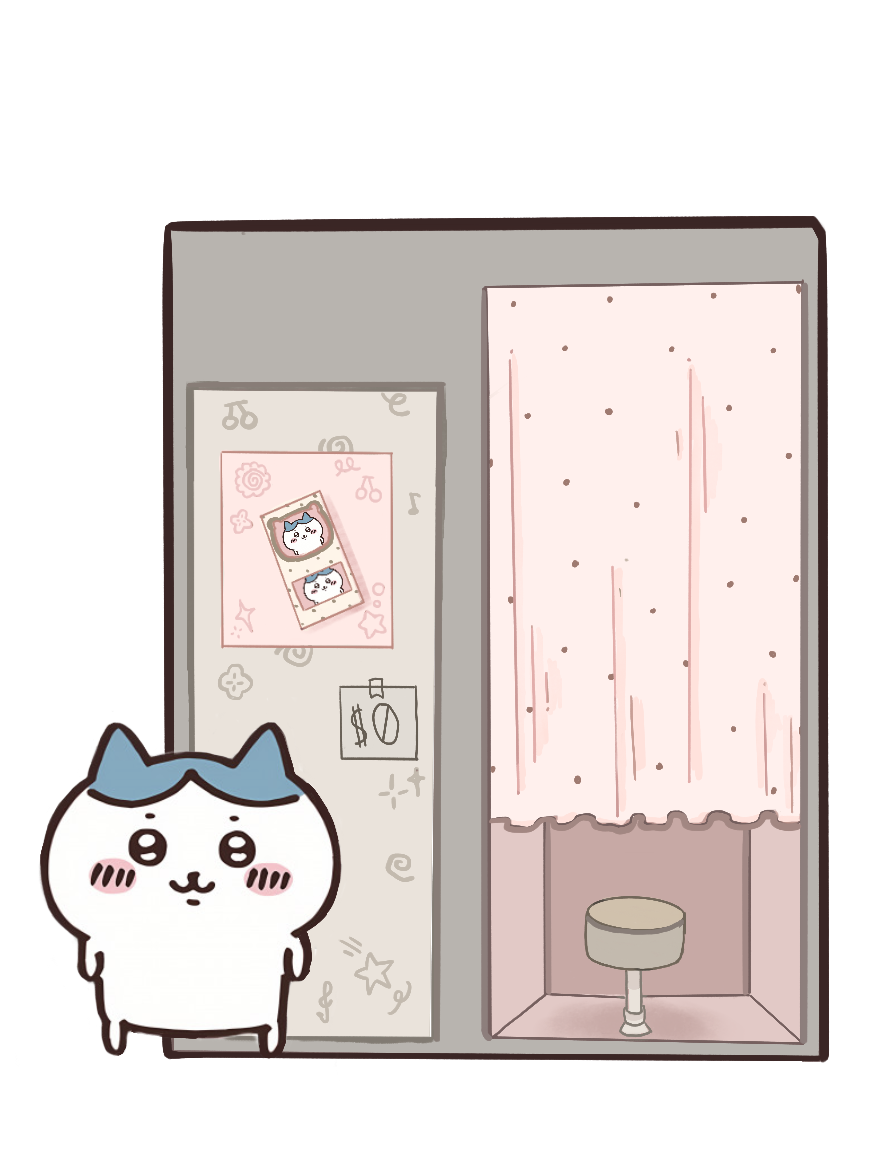
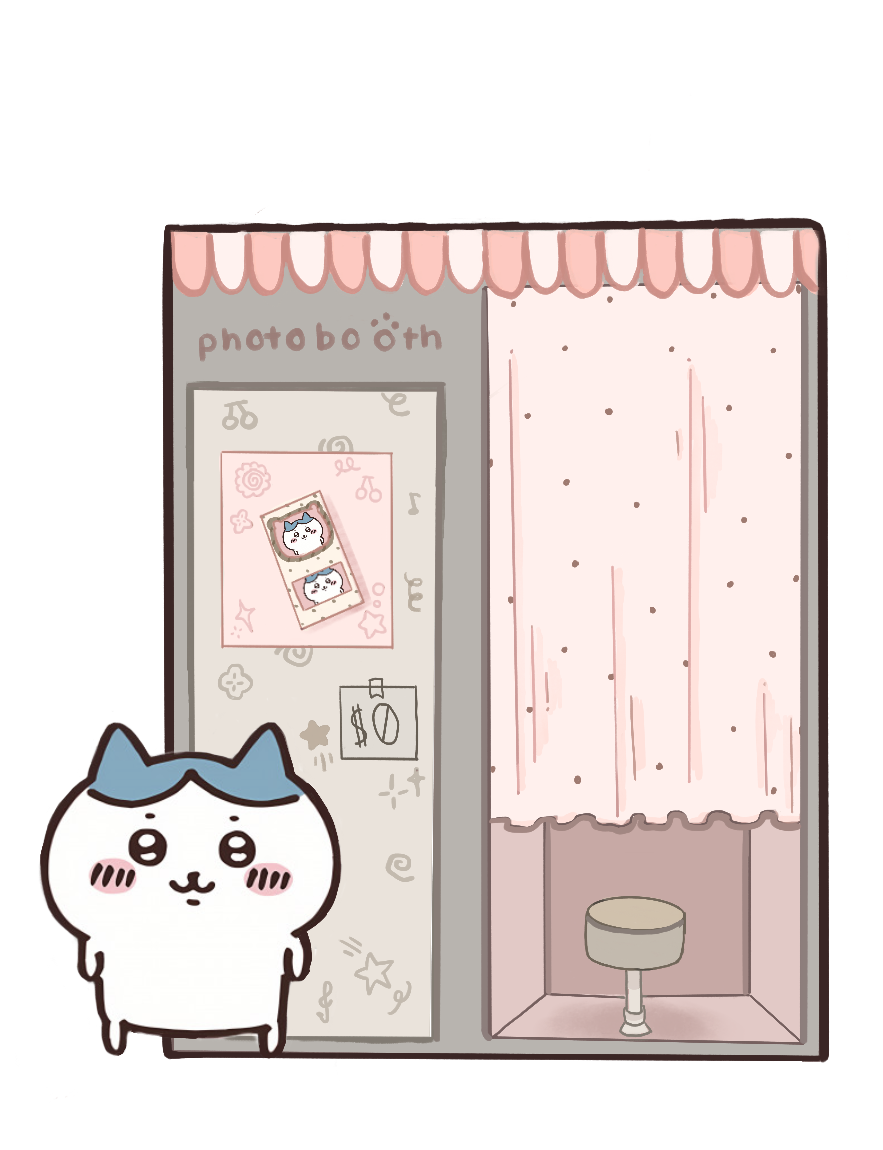
animations

Changed region(s): [[0.1835, 0.1826, 0.9479, 0.3043], [0.4587, 0.487, 0.4892, 0.5478], [0.3364, 0.6087, 0.3669, 0.6696]]

diff --git a/StyleSheets/home.css b/StyleSheets/home.css
@@ -24,12 +24,21 @@ body {
     position: absolute;
     top: 630px;
     left: 650px;
-    color: #362828;
+    color: #f2cccc;
+    -webkit-text-stroke: 1.5px #50433d;
     background-color:#e9e1e1;
     border: 2px solid #8b7d75;
     font-size: 15px;
     font-family: "starfont";
     border-radius: 50px;
+}
+
+.start:hover{
+    background-color: #f6e2e2;
+}
+
+.start:hover ~ .sparkle{
+    animation: sparkle-animation 2s ease-in-out infinite;
 }
 
 @font-face {
@@ -43,3 +52,43 @@ body {
     left: 750px;
     pointer-events: none;
 }
+
+
+.sparkle {
+    width: 420px;
+    position: absolute;
+    left: 400px;
+    top: 72px;
+}
+
+@keyframes sparkle-animation {
+  0%, 100% { transform: translateY(0px) rotate(0deg); }
+  50% { transform: translateY(-4px) rotate(0.5deg); }
+}
+
+
+.title {
+  position: absolute;
+  top: 30px;
+  left: 48%;
+  transform: translateX(-50%);
+  font-family: "starfont";
+  font-size: 250%;
+  color: #f2cccc;
+  -webkit-text-stroke: 3.5px #50433d;
+}
+
+.title span {
+  display: inline-block;
+  animation: sparkle-animation 3s ease-in-out infinite;
+  animation-delay: var(--delay);
+}
+
+.title span:nth-child(1) { --delay: -0.5s; }
+.title span:nth-child(2) { --delay: -1.2s; }
+.title span:nth-child(3) { --delay: -0.3s; }
+.title span:nth-child(4) { --delay: -1.8s; }
+.title span:nth-child(5) { --delay: -0.7s; }
+.title span:nth-child(6) { --delay: -1.1s; }
+.title span:nth-child(7) { --delay: -0.9s; }
+.title span:nth-child(8) { --delay: -1.5s; }

diff --git a/index.html b/index.html
@@ -3,13 +3,31 @@
     <head>
         <title>chiikawa photobooth</title>
         <link rel="icon" href="Assets/favicon.jpg">
+
+
+
         <link rel="stylesheet" href="StyleSheets/home.css">
     </head>
 
     <body>
+
+        <p class="title">
+            <span>c</span>
+            <span>h</span>
+            <span>i</span>
+            <span>i</span>
+            <span>k</span>
+            <span>a</span>
+            <span>w</span>
+            <span>a</span>
+        </p>
+
         <button class="start">start</button>
         <img class= "booth" src="Assets/booth.png">
         <img class="rabbit" src="Assets/rabbit.gif">
+        <img class="sparkle" src="Assets/sparkle.png">
+
+
         <script src="JavaScript/home.js"></script>
     </body>
 </html>